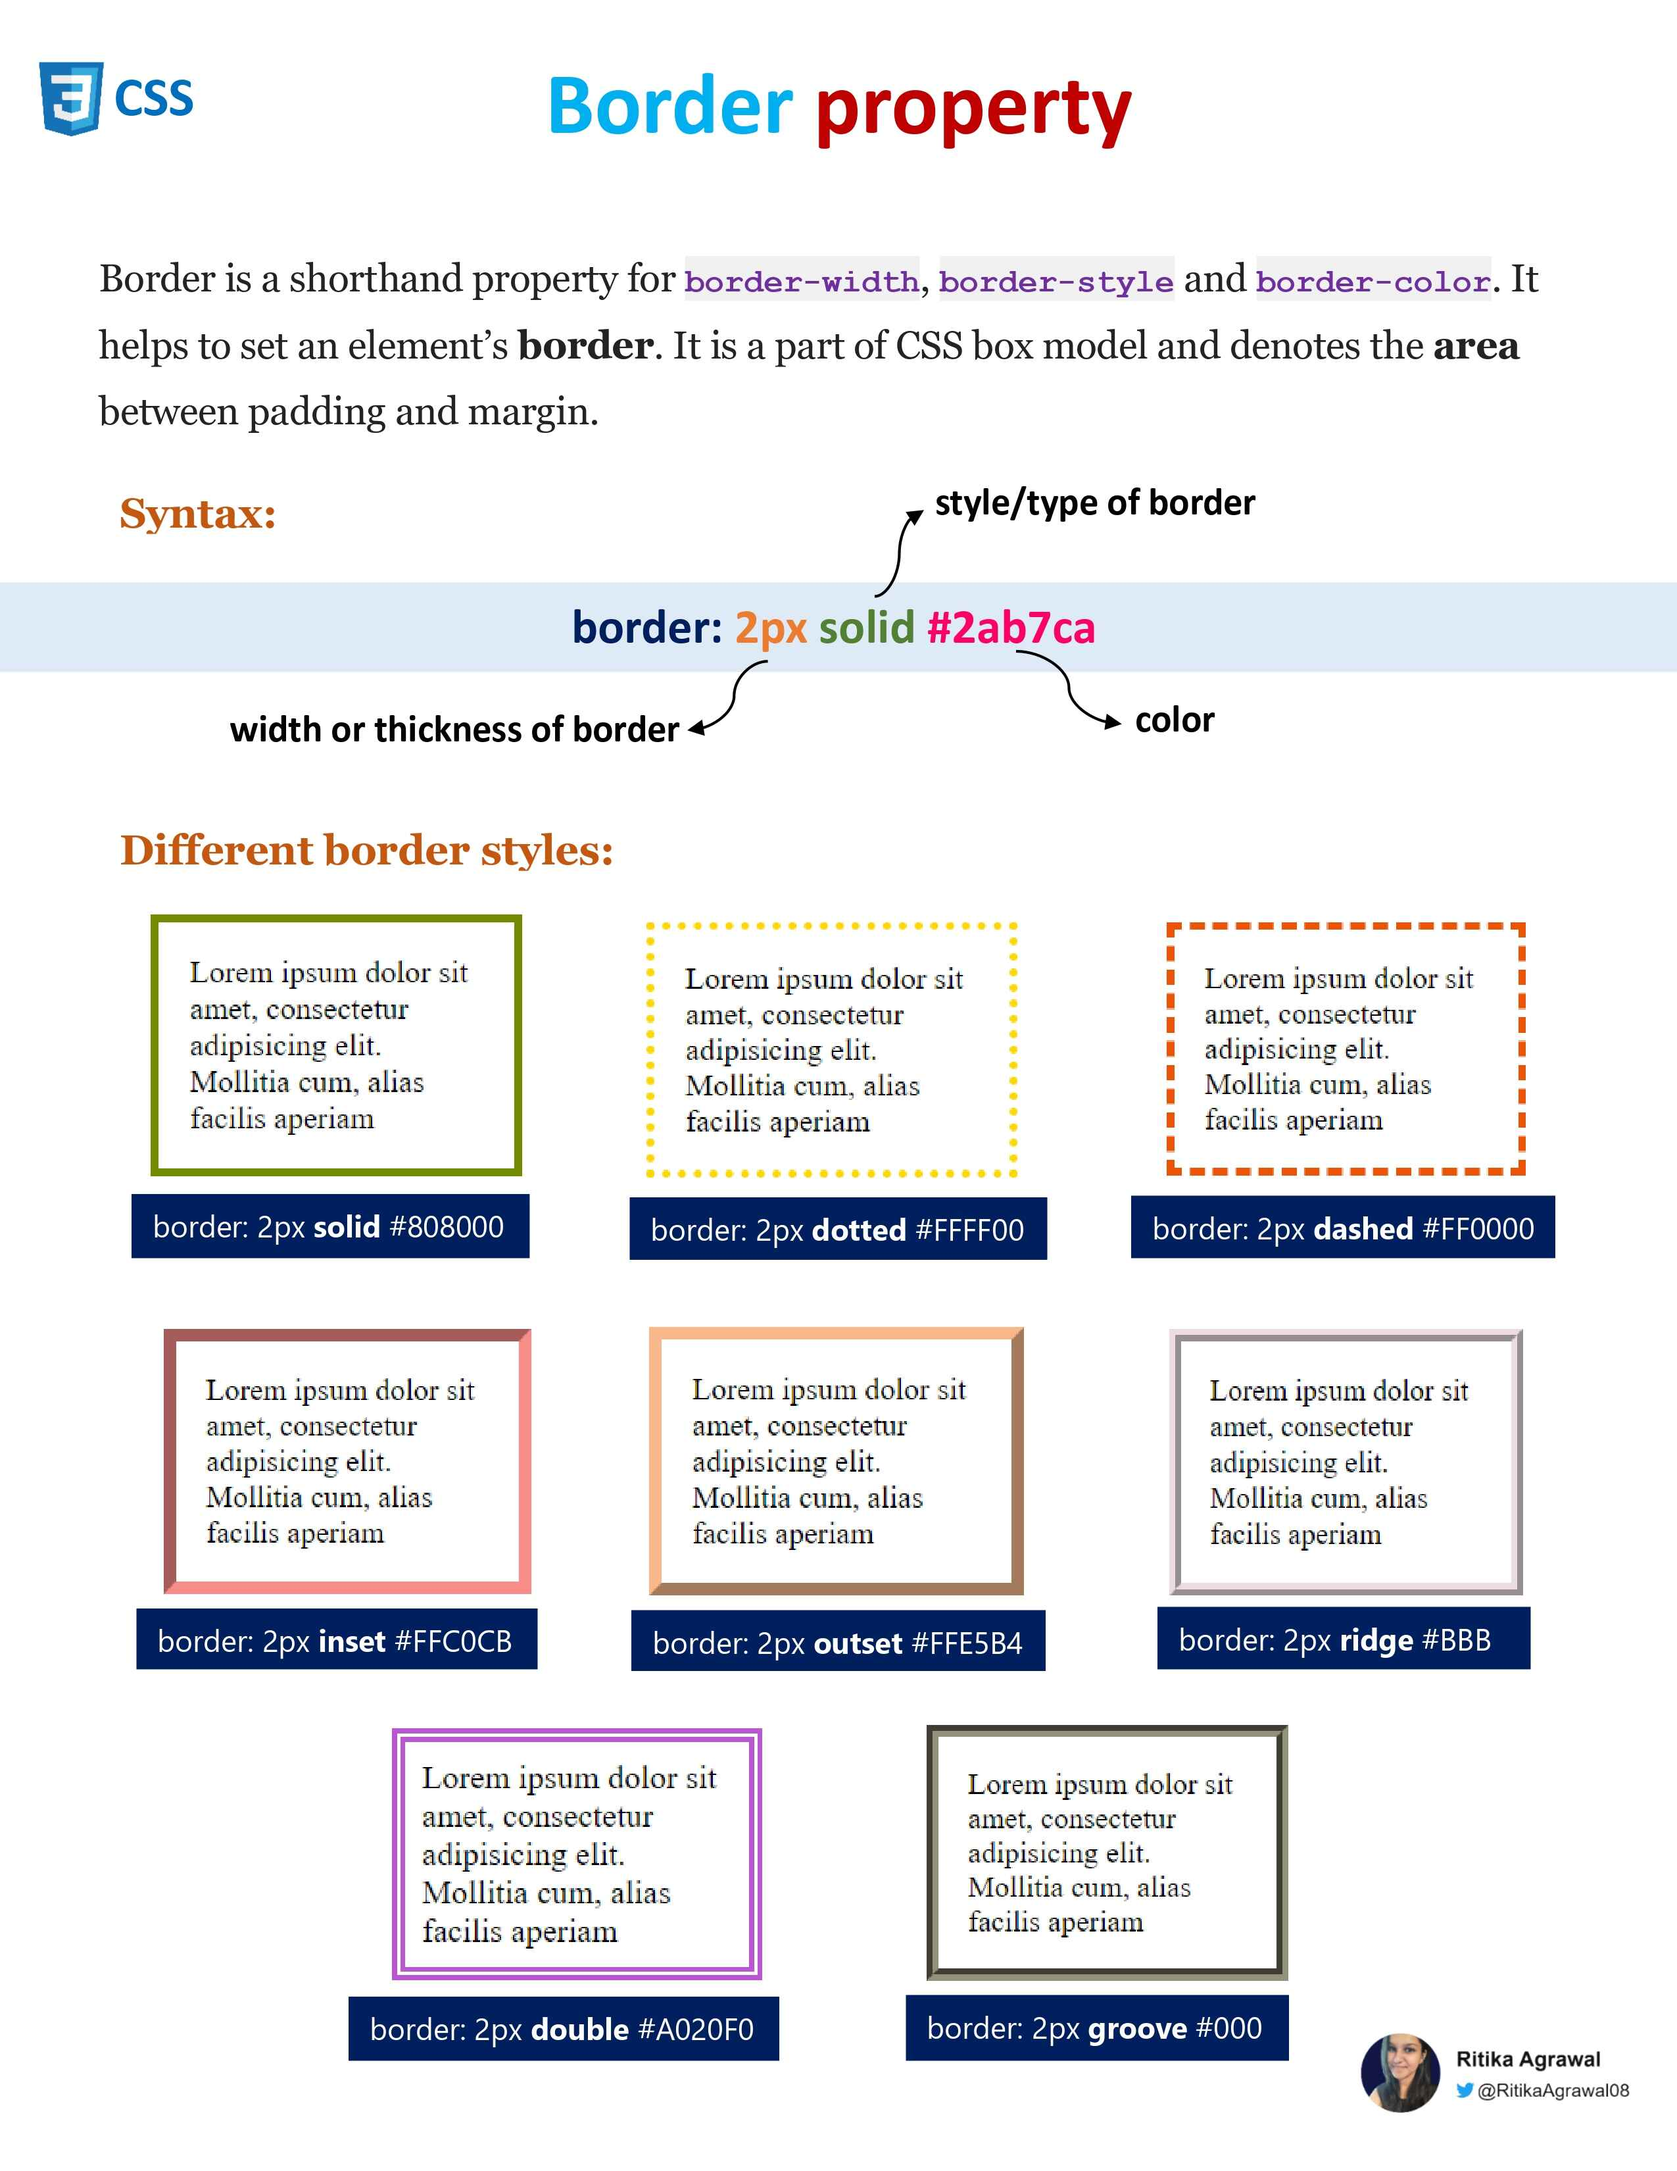
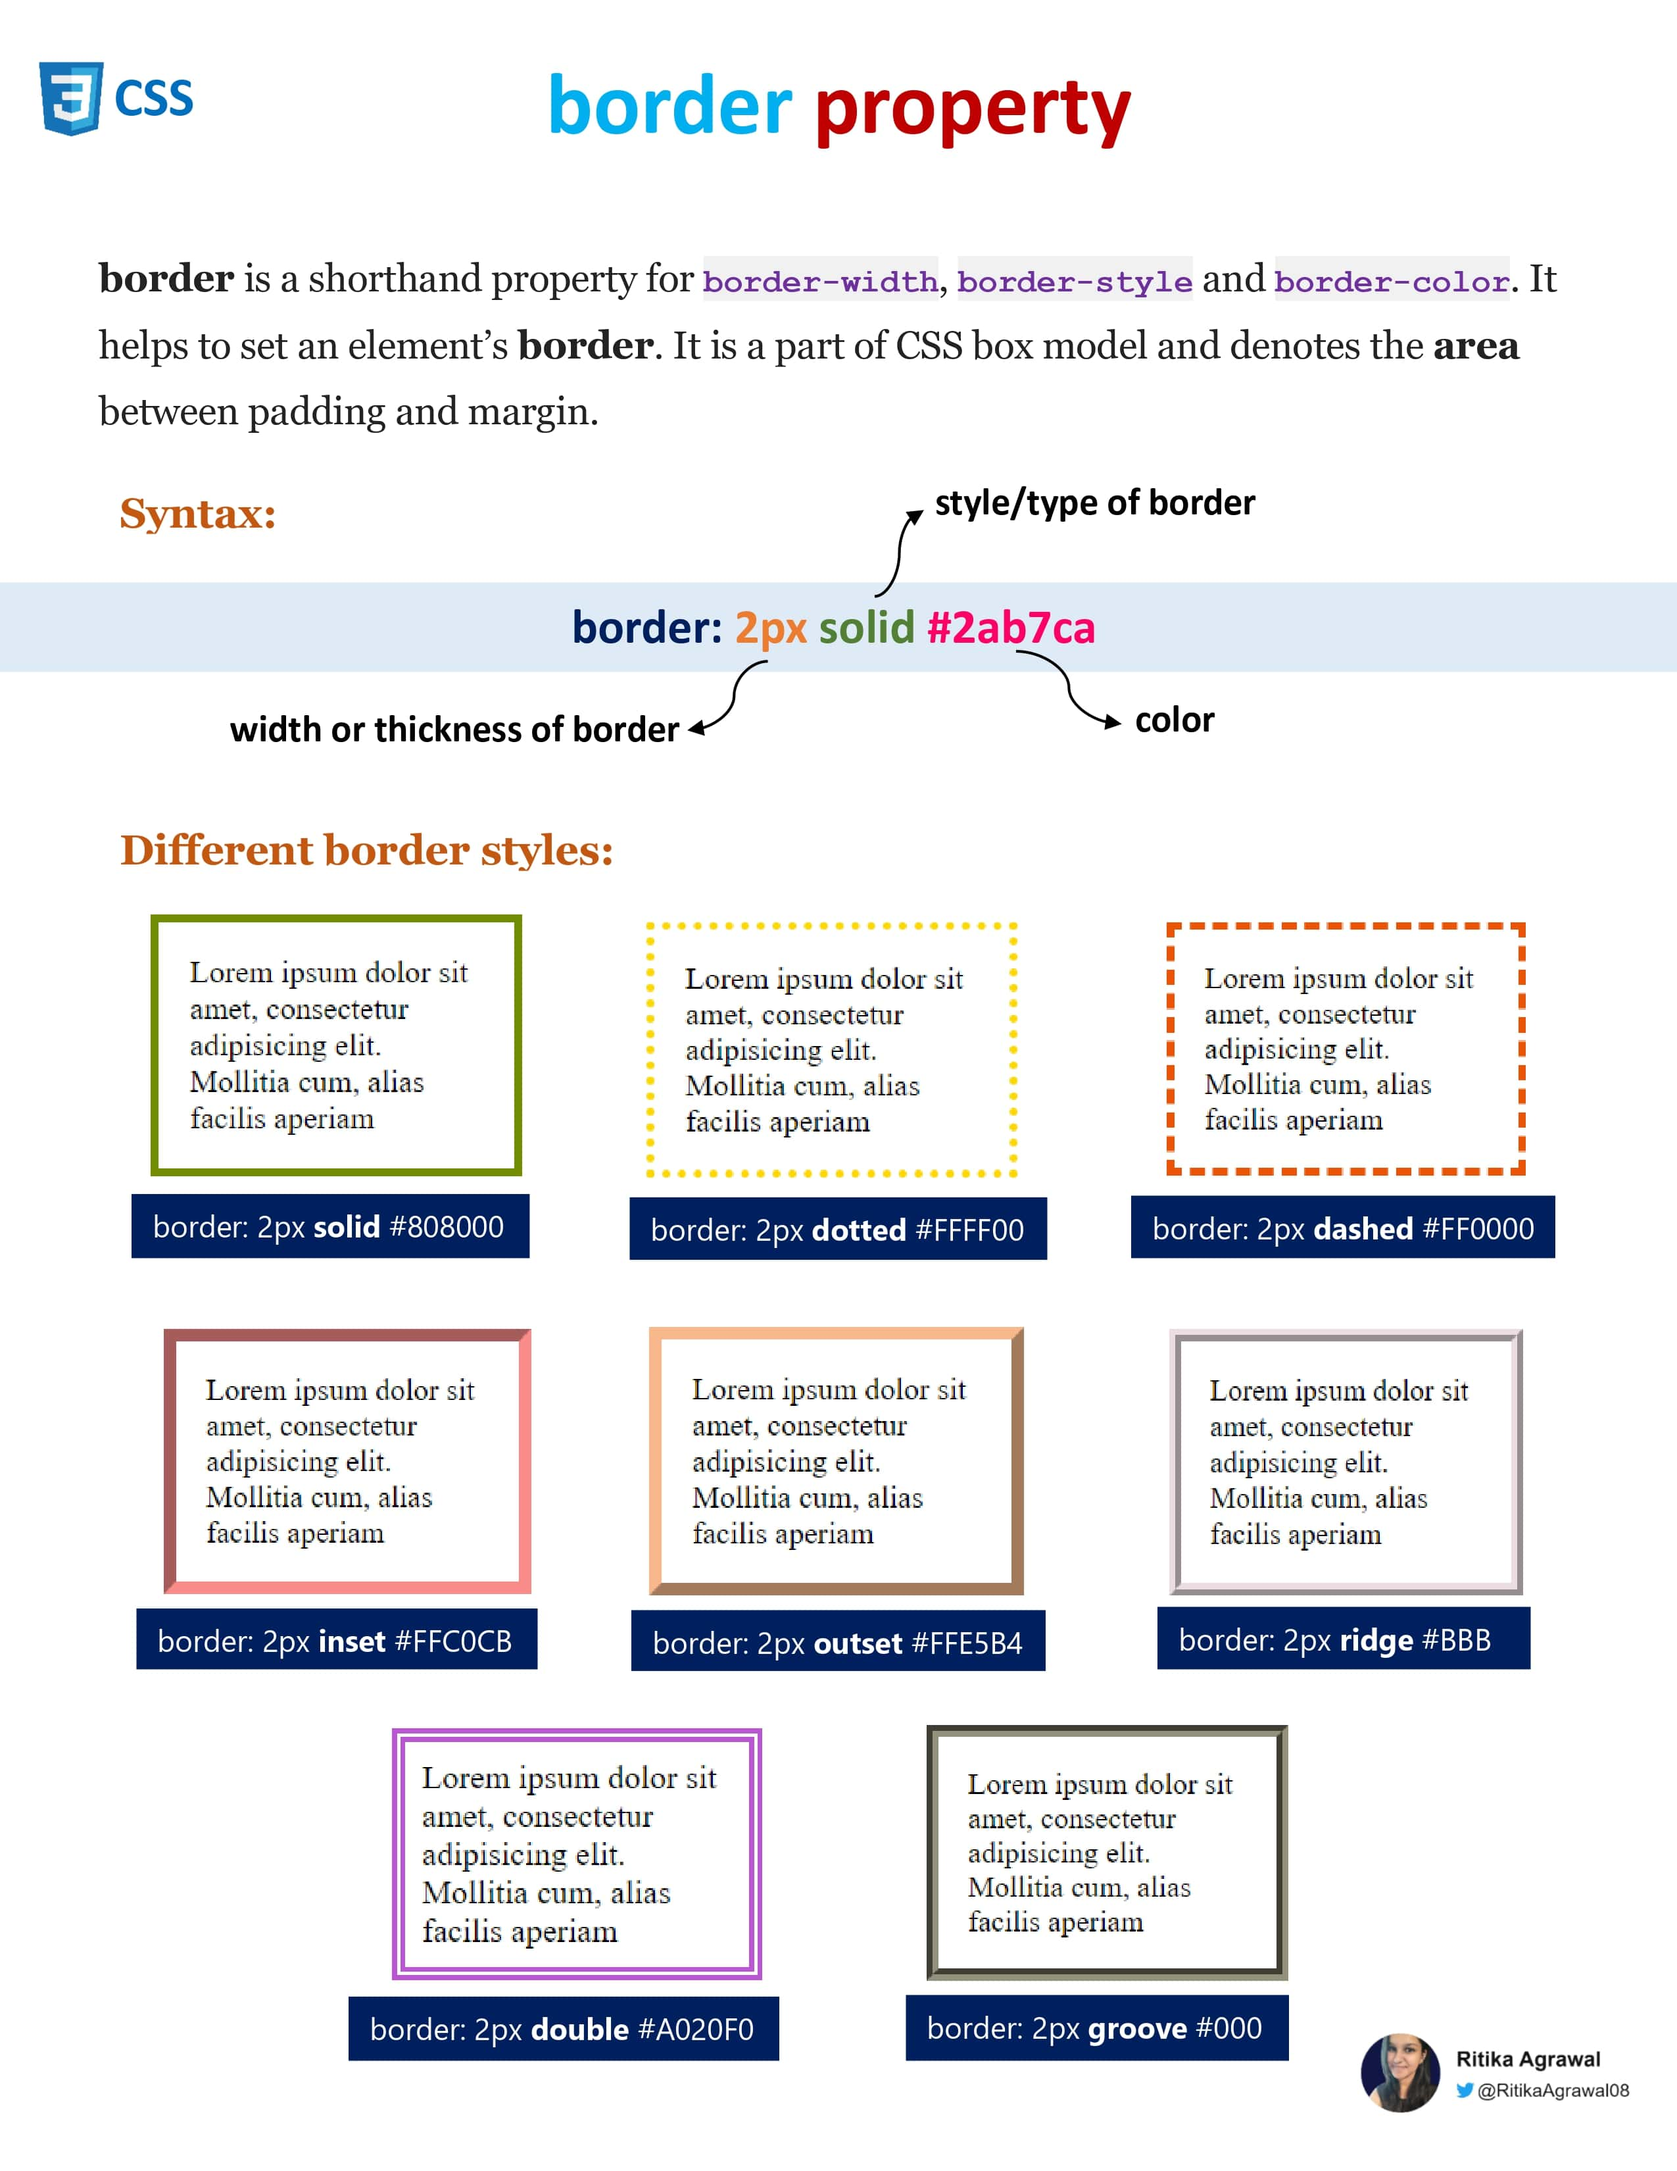
fix: updated border and box shadow cheat sheets

diff --git a/CHANGELOG.md b/CHANGELOG.md
@@ -16,6 +16,10 @@ The format is based on [Keep a Changelog](https://keepachangelog.com/en/1.1.0/),
 - 2025-08-25 JavaScript cheat sheet: Rest Operator
 - 2025-08-26 HTML cheat sheet: Meaningful Link Texts
 
+### Fixed
+
+- 2025-08-29 Updated CSS cheat sheets: border and box-shadow
+
 ---
 
 ## [1.0.0] - 2025-07-22
